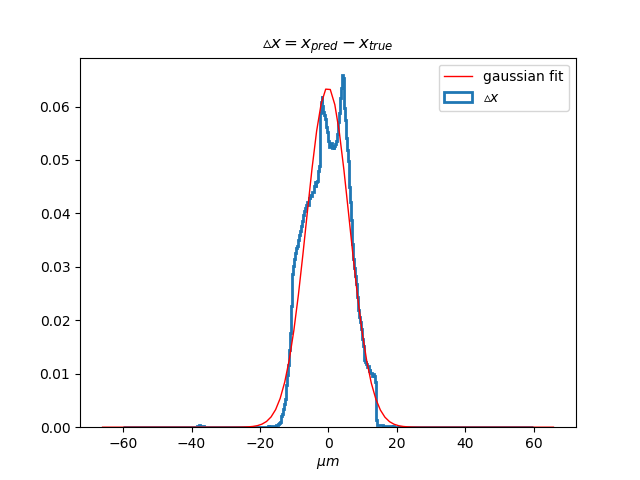
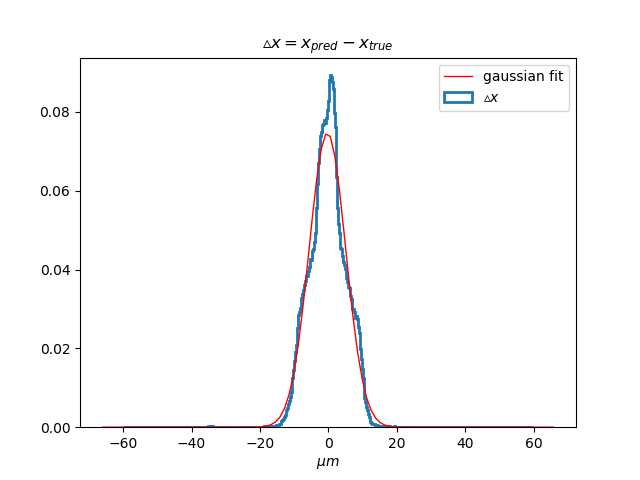
new plots

diff --git a/code/find_hit_position.py b/code/find_hit_position.py
@@ -54,7 +54,7 @@ f.close()
 batch_size = 128
 loss_function = 'mse'
 n_epochs = 20
-optimizer = Adam()
+optimizer = Adam(lr=0.001)
 validation_split = 0.3
 
 train_time_s = time.clock()
@@ -62,17 +62,17 @@ train_time_s = time.clock()
 
 inputs = Input(shape=(21,13,1))
 angles = Input(shape=(2,))
-x = Conv2D(16, (3, 3), padding="same")(inputs)
+x = Conv2D(32, (3, 3), padding="same")(inputs)
 x = Activation("relu")(x)
 x = BatchNormalization(axis=-1)(x)
 x = MaxPooling2D(pool_size=(3, 3))(x)
 x = Dropout(0.25)(x)
-x = Conv2D(32, (3, 3), padding="same")(x)
+x = Conv2D(64, (3, 3), padding="same")(x)
 x = Activation("relu")(x)
 x = BatchNormalization(axis=-1)(x)
 x = MaxPooling2D(pool_size=(2, 2))(x)
 x = Dropout(0.25)(x)
-x = Conv2D(32, (3, 3), padding="same")(x)
+x = Conv2D(64, (3, 3), padding="same")(x)
 x = Activation("relu")(x)
 x = BatchNormalization(axis=-1)(x)
 x = MaxPooling2D(pool_size=(2, 2))(x)
@@ -121,14 +121,14 @@ model = Model(inputs=[inputs,angles],
  # Display a model summary
 model.summary()
 
-history = model.load_weights("checkpoints/cp_%s.ckpt"%(img_ext))
+#history = model.load_weights("checkpoints/cp_%s.ckpt"%(img_ext))
 
 # Compile the model
 model.compile(loss=loss_function,
               optimizer=optimizer,
               metrics=['mse','mse']
               )
-'''
+
 callbacks = [
 ModelCheckpoint(filepath="checkpoints/cp_%s.ckpt"%(img_ext),
                 save_weights_only=True,
@@ -142,7 +142,7 @@ history = model.fit([pix_train, angles_train], [x_train, y_train],
                 callbacks=callbacks,
                 validation_split=validation_split)
 
-'''
+
 # Generate generalization metrics
 print("training time ",time.clock()-train_time_s)
 
